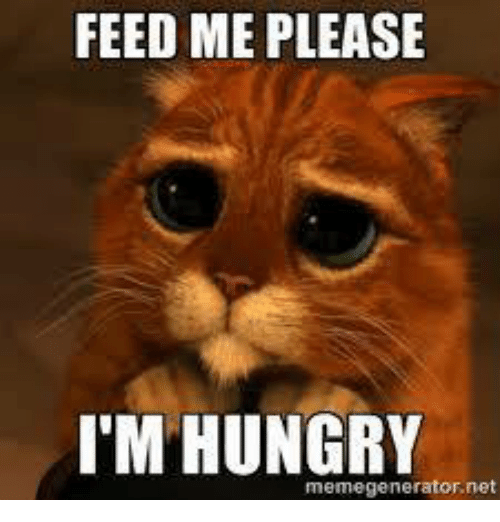
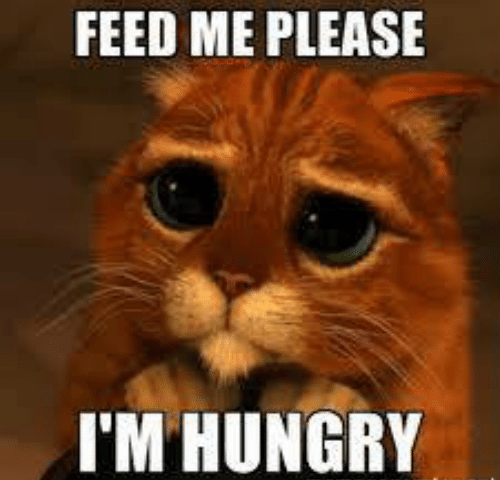
Modified html, css, selectors, properties
Change properties for margins, padding and moved some to different
selectors. Cropped image.

diff --git a/recipes/ribeye.html b/recipes/ribeye.html
@@ -7,29 +7,33 @@
         <link rel="stylesheet" href="../style/style.css">
     </head>
     <body>
-        <h1 class="border">Salt and Pepper Ribeye Steak</h1>
-        <img src="https://www.allrecipes.com/thmb/J7X6jJxP5C8VoNwELn2M_HBOyE0=/750x0/filters:no_upscale():max_bytes(150000):strip_icc():format(webp)/6964582-1dd5331c545e44bc973fb66da8db69ac.jpg" alt="A picture of a juicy ribeye steak" class="image border">
-        <h2 class="border">Salt and pepper ribeye steak</h2>
-        <p>Salting the ribeye steak two days prior to cooking brines the steak, helps tenderize it, and adds rich flavor.</p>
-        <h3 class="border">Ingredients</h3>
-        <div class="list-container">
-            <ul class="list">
-                <li>6 (8 ounce) rib-eye steaks</li>
-                <li>1 tablespoon Kosher salt</li>
-                <li>1 ½ teaspoons ground black pepper</li>
-                <li>1 tablespoon vegetable oil, or as needed</li>
-                <li>2 tablespoons unsalted butter</li>
-            </ul>
-        </div>
-        <h3 class="border">Steps</h3>
-        <div class="list-container">
-            <ol class="list">
-                <li>Two days before cooking, salt both sides of each steak with 1/2 teaspoon Kosher Salt per steak. Place steaks in an airtight container and refrigerate until ready to cook.</li>
-                <li>Remove the steaks from the refrigerator about 30 minutes prior to cooking. Sprinkle both sides of steak with black pepper.</li>
-                <li>Heat cast iron pan over medium-high heat until very hot. Add vegetable oil and heat until oil shimmers.</li>
-                <li>Carefully place steaks in pan. Cook until brown and hard-seared on one side, 4 to 5 minutes.</li>
-                <li>Turn steaks and top with one teaspoon butter. Cook for 3 to 4 more minutes or to desired doneness. You may need to cook the steaks in batches depending on the size of your cast iron pan. Keep the cooked steaks in a 170 degree F oven until ready to serve.</li>
-            </ol>            
+        <div class="body-border border">
+            <h1 class="border">Salt and Pepper Ribeye Steak</h1>
+            <img src="https://www.allrecipes.com/thmb/J7X6jJxP5C8VoNwELn2M_HBOyE0=/750x0/filters:no_upscale():max_bytes(150000):strip_icc():format(webp)/6964582-1dd5331c545e44bc973fb66da8db69ac.jpg" alt="A picture of a juicy ribeye steak" class="image border">
+            <h2 class="border">Salt and pepper ribeye steak</h2>
+            <div class="border para">
+                <p>Salting the ribeye steak two days prior to cooking brines the steak, helps tenderize it, and adds rich flavor.</p>
+            </div>
+            <h3 class="border">Ingredients</h3>
+            <div class="list-container">
+                <ul class="list">
+                    <li class="border">6 (8 ounce) rib-eye steaks</li>
+                    <li class="border">1 tablespoon Kosher salt</li>
+                    <li class="border">1 ½ teaspoons ground black pepper</li>
+                    <li class="border">1 tablespoon vegetable oil, or as needed</li>
+                    <li class="border">2 tablespoons unsalted butter</li>
+                </ul>
+            </div>
+            <h3 class="border">Steps</h3>
+            <div class="list-container">
+                <ol class="list">
+                    <li class="border">Two days before cooking, salt both sides of each steak with 1/2 teaspoon Kosher Salt per steak. Place steaks in an airtight container and refrigerate until ready to cook.</li>
+                    <li class="border">Remove the steaks from the refrigerator about 30 minutes prior to cooking. Sprinkle both sides of steak with black pepper.</li>
+                    <li class="border">Heat cast iron pan over medium-high heat until very hot. Add vegetable oil and heat until oil shimmers.</li>
+                    <li class="border">Carefully place steaks in pan. Cook until brown and hard-seared on one side, 4 to 5 minutes.</li>
+                    <li class="border">Turn steaks and top with one teaspoon butter. Cook for 3 to 4 more minutes or to desired doneness. You may need to cook the steaks in batches depending on the size of your cast iron pan. Keep the cooked steaks in a 170 degree F oven until ready to serve.</li>
+                </ol>            
+            </div>
         </div>
     </body>
 </html>

diff --git a/recipes/catfish.html b/recipes/catfish.html
@@ -7,31 +7,35 @@
         <link rel="stylesheet" href="../style/style.css">
     </head>
     <body>
-        <h1 class="border">Southern Fried Catfish</h1>
-        <img src="https://www.allrecipes.com/thmb/vFmFnsa45foEhkPm764N7wMCoqw=/750x0/filters:no_upscale():max_bytes(150000):strip_icc():format(webp)/2224161-b17cc7c6f10340eaab138db06c8677c2.jpg" alt="A picture a crispy fried Catfish" class="image border">
-        <h2class="border">Southern Fried Catfish</h2>
-        <p>This fried catfish recipe is a classic Southern dish traditionally served with buttermilk hush puppies and buttermilk coleslaw.</p>
-        <h3 class="border">Ingredients</h3>
-        <div class="list-container">
-            <ul class="list">
-                <li>½ cup buttermilk</li>
-                <li>½ cup water</li>
-                <li>salt and pepper, to taste</li>
-                <li>1 pound catfish fillets, cut in strips</li>
-                <li>1 ½ cups fine cornmeal</li>
-                <li>½ cup all-purpose flour</li>
-                <li>1 teaspoon seafood seasoning, such as Old Bay™</li>
-                <li>1 quart vegetable oil for deep frying</li>
-            </ul>
-        </div>
-        <h3 class="border">Steps</h3>
-        <div class="list-container">
-            <ol class="list">
-                <li>Mix buttermilk, water, salt, and pepper in a small bowl. Pour mixture into a flat pan large enough to hold fillets. Arrange fillets in a single layer in the pan, turning to coat each side. Set aside to marinate.</li>
-                <li>Combine cornmeal, flour, and seafood seasoning in a 2-gallon resealable plastic bag. Add fillets to the bag, a few at a time, and tumble gently until evenly coated.</li>
-                <li>Heat oil in a deep fryer to 365 degrees F (185 degrees C).</li>
-                <li>Fry fillets in hot oil until crisp and golden brown, about 3 minutes. Work in batches to avoid overcrowding, so fillets have room to brown properly. Drain on paper towels.</li>
-            </ol>
+        <div class="body-border border">
+            <h1 class="border">Southern Fried Catfish</h1>
+            <img src="https://www.allrecipes.com/thmb/vFmFnsa45foEhkPm764N7wMCoqw=/750x0/filters:no_upscale():max_bytes(150000):strip_icc():format(webp)/2224161-b17cc7c6f10340eaab138db06c8677c2.jpg" alt="A picture a crispy fried Catfish" class="image border">
+            <h2 class="border">Southern Fried Catfish</h2>
+            <div class="border para">
+                <p>This fried catfish recipe is a classic Southern dish traditionally served with buttermilk hush puppies and buttermilk coleslaw.</p>
+            </div>
+            <h3 class="border">Ingredients</h3>
+            <div class="list-container">
+                <ul class="list">
+                    <li class="border">½ cup buttermilk</li>
+                    <li class="border">½ cup water</li>
+                    <li class="border">salt and pepper, to taste</li>
+                    <li class="border">1 pound catfish fillets, cut in strips</li>
+                    <li class="border">1 ½ cups fine cornmeal</li>
+                    <li class="border">½ cup all-purpose flour</li>
+                    <li class="border">1 teaspoon seafood seasoning, such as Old Bay™</li>
+                    <li class="border">1 quart vegetable oil for deep frying</li>
+                </ul>
+            </div>
+            <h3 class="border">Steps</h3>
+            <div class="list-container">
+                <ol class="list">
+                    <li class="border">Mix buttermilk, water, salt, and pepper in a small bowl. Pour mixture into a flat pan large enough to hold fillets. Arrange fillets in a single layer in the pan, turning to coat each side. Set aside to marinate.</li>
+                    <li class="border">Combine cornmeal, flour, and seafood seasoning in a 2-gallon resealable plastic bag. Add fillets to the bag, a few at a time, and tumble gently until evenly coated.</li>
+                    <li class="border">Heat oil in a deep fryer to 365 degrees F (185 degrees C).</li>
+                    <li class="border">Fry fillets in hot oil until crisp and golden brown, about 3 minutes. Work in batches to avoid overcrowding, so fillets have room to brown properly. Drain on paper towels.</li>
+                </ol>
+            </div>
         </div>
     </body>
 </html>

diff --git a/recipes/chicken-wings.html b/recipes/chicken-wings.html
@@ -11,8 +11,10 @@
             <h1 class="border">Baked Buffalo Wings</h1>
             <img src="https://www.allrecipes.com/thmb/gZdLJWbeuE6iuuUUONr_JIQfkaU=/750x0/filters:no_upscale():max_bytes(150000):strip_icc():format(webp)/166638-baked-buffalo-wings-ddmfs-beauty-3x4-90787930d20b402e9dde79c22fced332.jpg" alt="A picture of tasty buffalo wings" class="image border">
             <h2 class="border">Baked buffalo wings</h2>
-            <p>These baked Buffalo wings are crispy without being fried. They take only 10 minutes to prep, but need to be refrigerated for about an hour so the flour coating is firm. <strong>You can add more cayenne or hot sauce if you like them spicier!</strong></p>
-            <p>Believe it or not, you don't need a deep fryer to make the best Buffalo wings of your life. These sports bar-worthy wings are as crispy as it gets (thanks to an hour of refrigeration time before they hit the oven), but they don't require any oil — and they don't make a mess of your kitchen.</p>
+            <div class="border para">
+                <p>These baked Buffalo wings are crispy without being fried. They take only 10 minutes to prep, but need to be refrigerated for about an hour so the flour coating is firm. <strong>You can add more cayenne or hot sauce if you like them spicier!</strong></p>
+                <p>Believe it or not, you don't need a deep fryer to make the best Buffalo wings of your life. These sports bar-worthy wings are as crispy as it gets (thanks to an hour of refrigeration time before they hit the oven), but they don't require any oil — and they don't make a mess of your kitchen.</p>
+            </div>
             <h3 class="border">Ingredients</h3>
             <div class="list-container">
                 <ul class="list">

diff --git a/index.html b/index.html
@@ -7,14 +7,16 @@
         <link rel="stylesheet" href="./style/style.css">
     </head>
     <body>
-        <h1 class="border">Odin Recipes</h1>
-        <img src="./img/feed-me-please.png" alt="Picture of sad, hungry cat" class="image border">
-        <div class="list-container">
-            <ul class="list">
-                <li class="border"><a href="./recipes/ribeye.html">Salt and Pepper Ribeye Steak</a></li>
-                <li class="border"><a href="./recipes/catfish.html">Southern Fried Catfish</a></li>
-                <li class="border"><a href="./recipes/chicken-wings.html">Baked Buffalo Wings</a></li>
-            </ul>
+        <div class="body-border border">
+            <h1 class="border">Odin Recipes</h1>
+            <img src="./img/feed-me-please.png" alt="Picture of sad, hungry cat" class="image border">
+            <div class="list-container">
+                <ul class="list">
+                    <li class="border"><a href="./recipes/ribeye.html">Salt and Pepper Ribeye Steak</a></li>
+                    <li class="border"><a href="./recipes/catfish.html">Southern Fried Catfish</a></li>
+                    <li class="border"><a href="./recipes/chicken-wings.html">Baked Buffalo Wings</a></li>
+                </ul>
+            </div>
         </div>
     </body>
 </html>

diff --git a/style/style.css b/style/style.css
@@ -7,44 +7,44 @@ body {
     color: black;
 }
 
-p {
-    font-size: larger;
-    padding: 1rem;
-}
-
 h1, h2, h3 {
     font-family: "Brush Script MT";
     font-weight: bolder;
     background-color: rgb(0, 165, 165);
     padding: 15px;
     width: fit-content;
-}
-
-.body-border {
-    background-color: rgb(0, 165, 165);
-    padding: 2rem;
-}
-
-h1 {
-    font-size: 4rem;
     margin: 3rem auto;
 }
 
+h1 {
+    font-size: 4vw;
+}
+
 h2 {
-    font-size: 3rem;
-    margin: 2rem auto;
+    font-size: 3vw;
 }
 
 h3 {
-    font-size: 2rem;
-    margin: 2rem auto;
+    font-size: 2.5vw;
 }
 
 li.border {
     background-color: rgb(0, 165, 165);
     width: auto;
     padding: 5px 10px 5px 10px;
-    margin-bottom: 1rem;
+    margin: 1rem;
+    font-size: 1.5vw;
+}
+
+div.border {
+    background-color: rgb(0, 165, 165);
+    width: auto;
+    padding: 5px 10px 5px 10px;
+}
+
+div.border.para {
+    margin-bottom: 4rem;
+    font-size: 1.5vw;
 }
 
 .list-container {
@@ -54,7 +54,6 @@ li.border {
 .list {
     display: inline-block;
     text-align: left;
-    font-size: larger;
     list-style-position: inside;
     padding-left: 0;
 }
@@ -70,5 +69,5 @@ li.border {
     display: block;
     margin: 3rem auto;
     height: auto;
-    width: auto;
+    width: 90%;
 }
